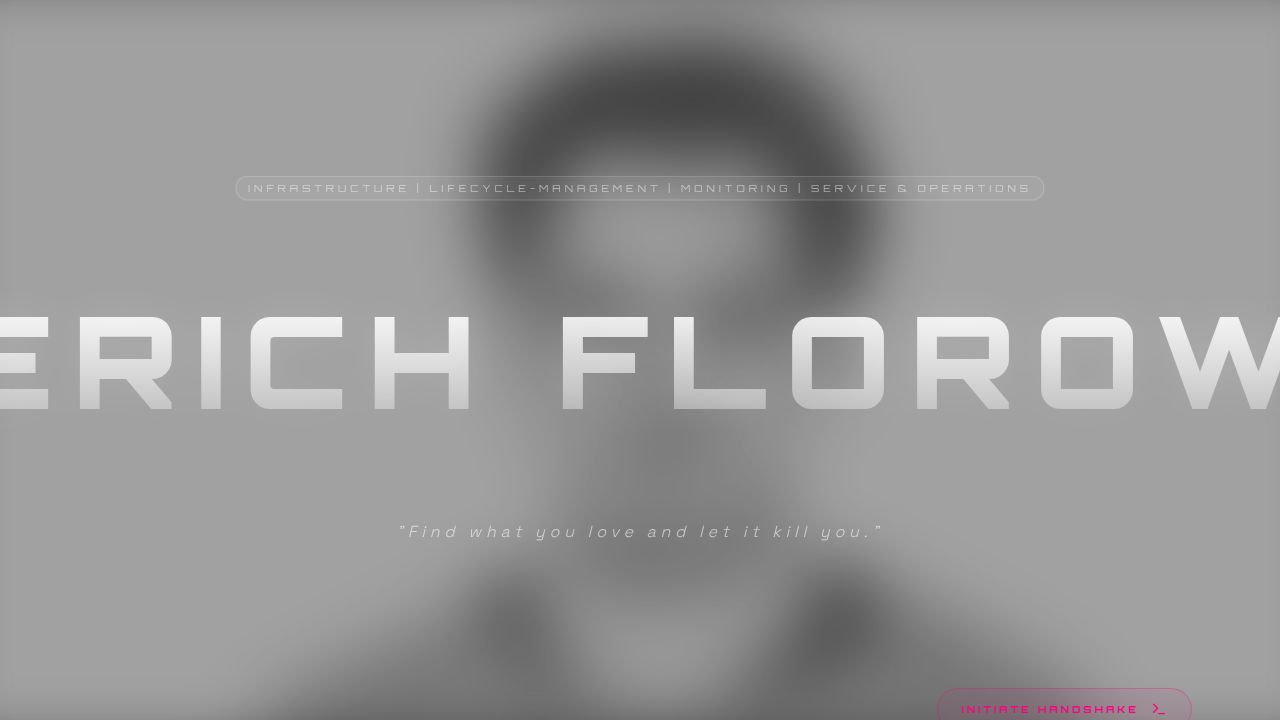
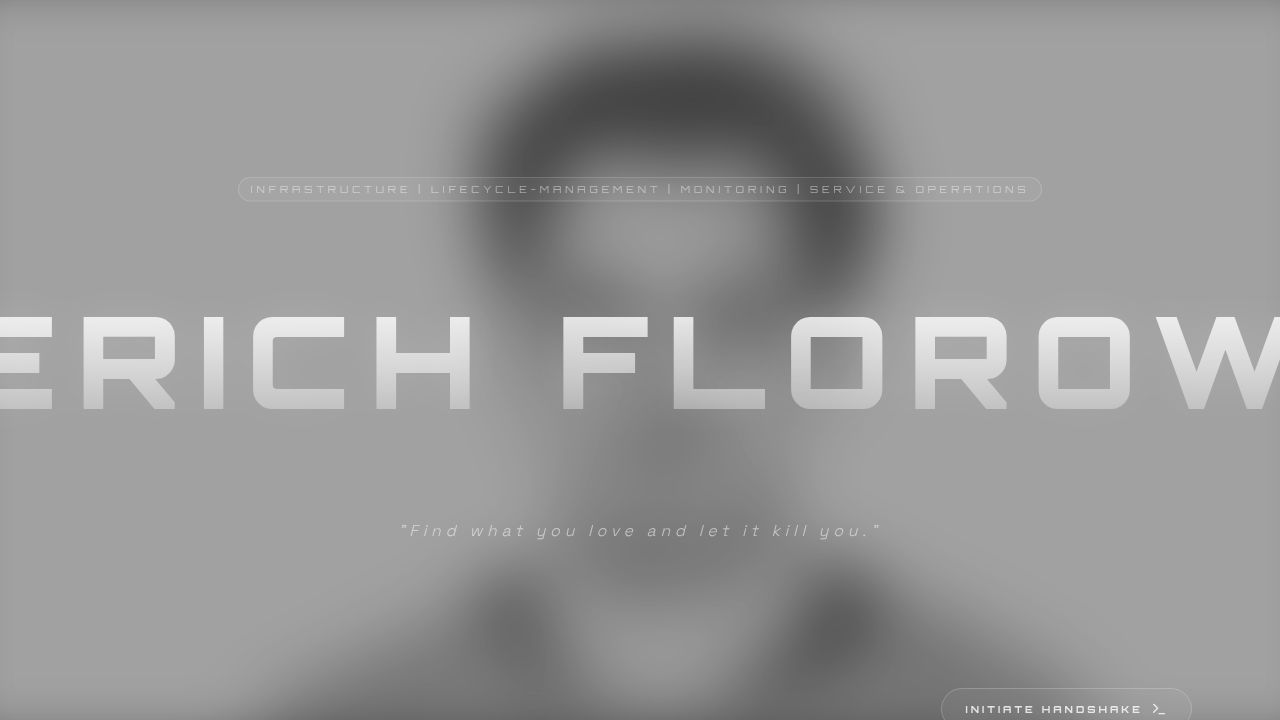
Update plans to include open-telemetry
Adds "open-telemetry" to the "PLANS TO COME" section in the home page component.

Replit-Commit-Author: Agent
Replit-Commit-Session-Id: 8429f5a3-2a5b-4a5f-b96d-6bf4e889ec66
Replit-Commit-Checkpoint-Type: full_checkpoint
Replit-Commit-Event-Id: 4185512f-d298-4ada-af42-efd3868ad7a5
Replit-Commit-Screenshot-Url: https://storage.googleapis.com/screenshot-production-us-central1/ac41c0b6-7845-4b6b-ad60-6fea01a77c30/8429f5a3-2a5b-4a5f-b96d-6bf4e889ec66/KnRI9Uz
Replit-Helium-Checkpoint-Created: true

diff --git a/client/src/pages/home.tsx b/client/src/pages/home.tsx
@@ -253,7 +253,7 @@ export default function Home() {
                         { title: "K8S Migration", impact: "apps-transition to company-clusters", icon: <Cpu className="w-4 h-4" /> },
                         { title: "Log Orchestration", impact: "aiming zero-downtimes in owned apps - high quality exports/dashboards concerning reliability, expediency and design", icon: <BarChart3 className="w-4 h-4" /> },
                         { title: "Jira Automation", impact: "commited to make it easier - API - script-runner - groovy", icon: <Zap className="w-4 h-4" /> },
-                        { title: "PLANS TO COME", impact: "better and faster error-detecting, tuning automated tasks, incident-automation, SOAP to REST transition", icon: <Zap className="w-4 h-4" /> }
+                        { title: "PLANS TO COME", impact: "better and faster error-detecting, tuning automated tasks, incident-automation, SOAP to REST transition, open-telemetry", icon: <Zap className="w-4 h-4" /> }
                       ].map((project, idx) => (
                         <div key={idx} className="p-4 border border-white/5 bg-white/[0.01] rounded-xl hover:border-[#ff0080]/30 hover:bg-[#ff0080]/5 transition-all duration-500 group/project">
                           <div className="flex items-center gap-3 mb-2">
